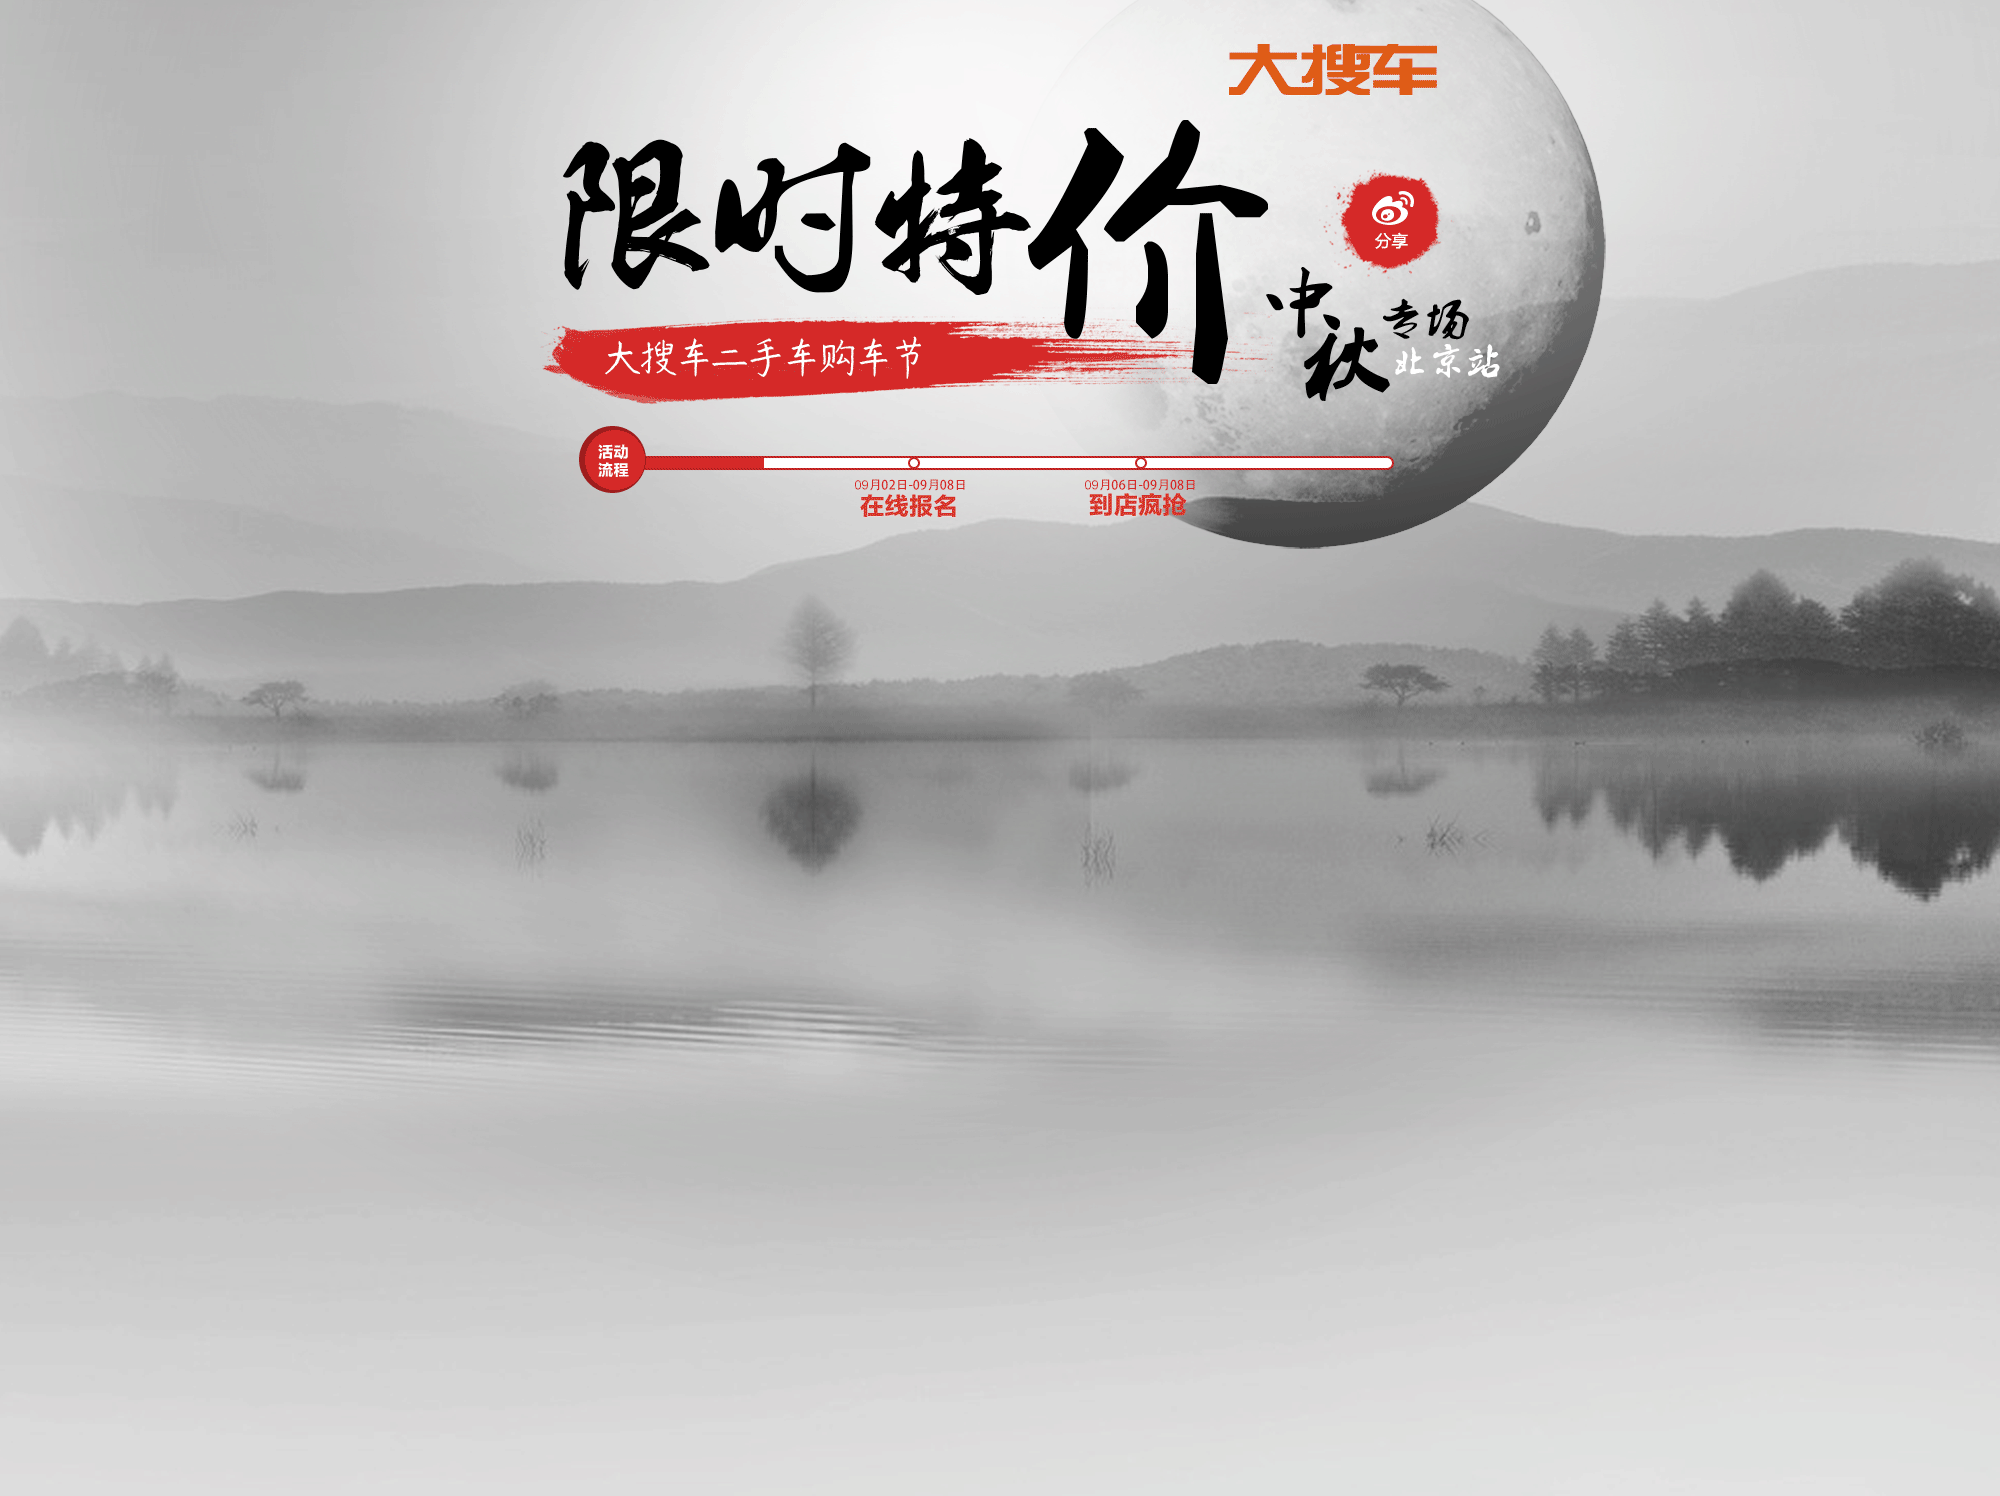
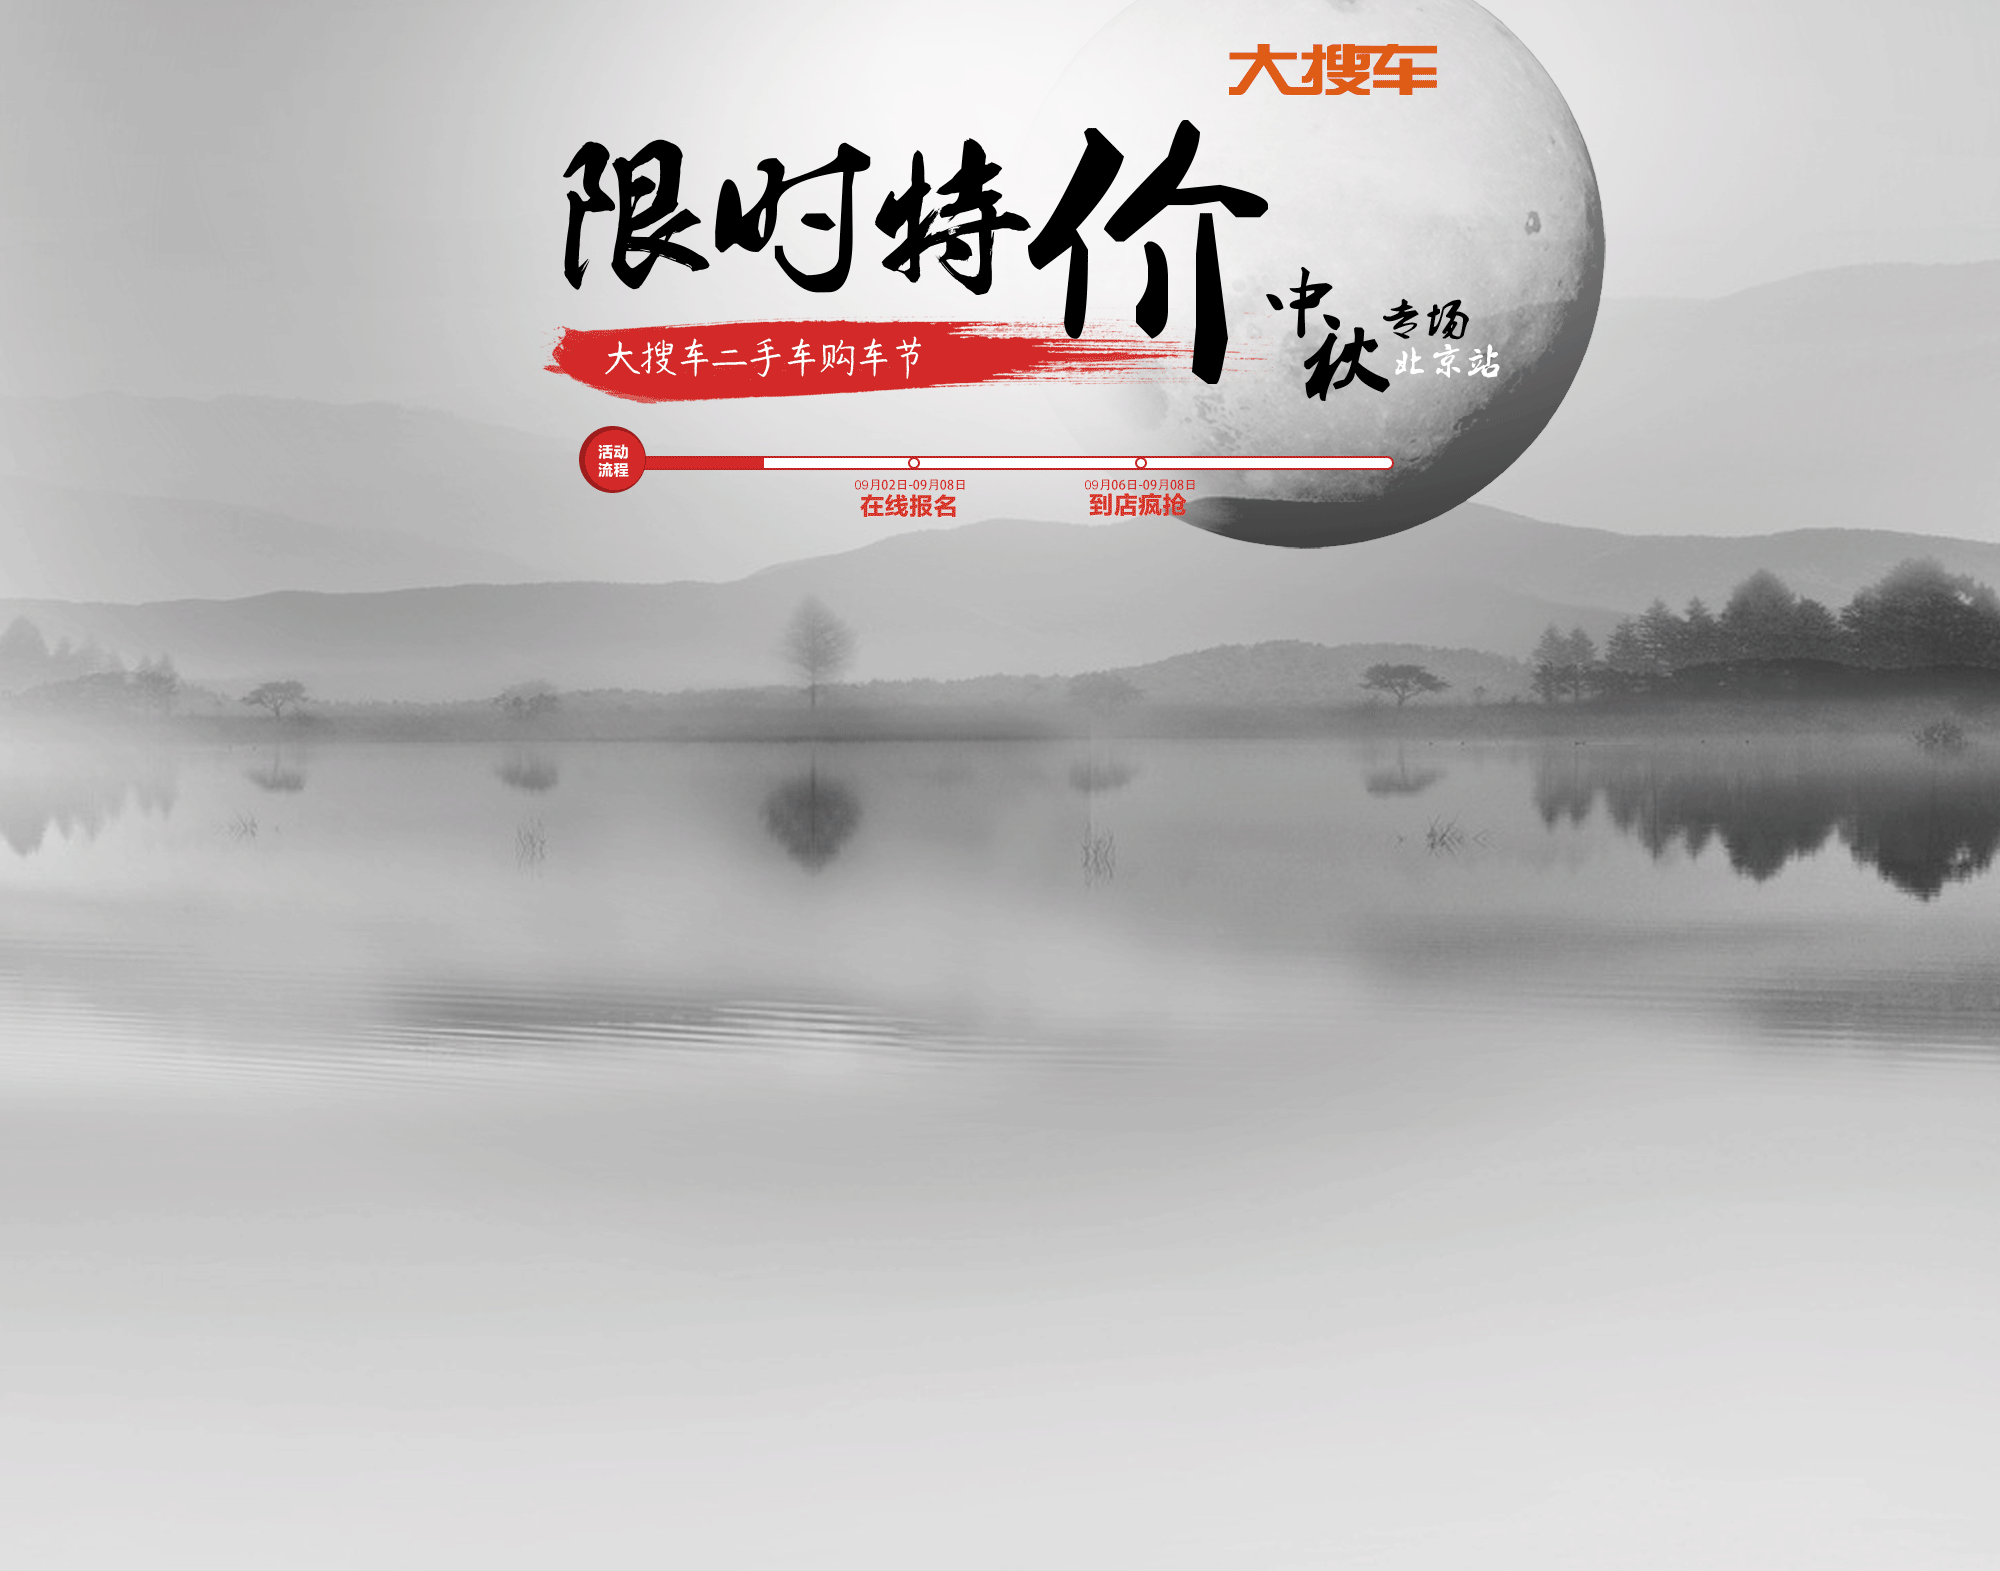
detail

diff --git a/assets/css/act/gouchejie.less b/assets/css/act/gouchejie.less
@@ -1,7 +1,7 @@
 #gouchejie{
   #content{
     height: 4635px;
-    background:#dfdfdf url(../../images/acts/gouchejie/bg.png) no-repeat top center;
+    background:#dfdfdf url(../../images/acts/gouchejie/bg.png?123) no-repeat top center;
     .wrapper{
       width: 1035px;
       margin: 0 auto;
@@ -13,7 +13,7 @@
         width: 160px;
         height: 126px;
         background: url(../../images/acts/gouchejie/weibo.png) no-repeat;
-        top: 370px;
+        top: 150px;
         right:20px;
         a{
           display: block;
@@ -29,7 +29,7 @@
         background: url(../../images/acts/gouchejie/erweima.png) no-repeat;
         position: fixed;
         top: 300px;
-        right: 50px;
+        right: 0px;
       }
       .baoming{
         .head{
